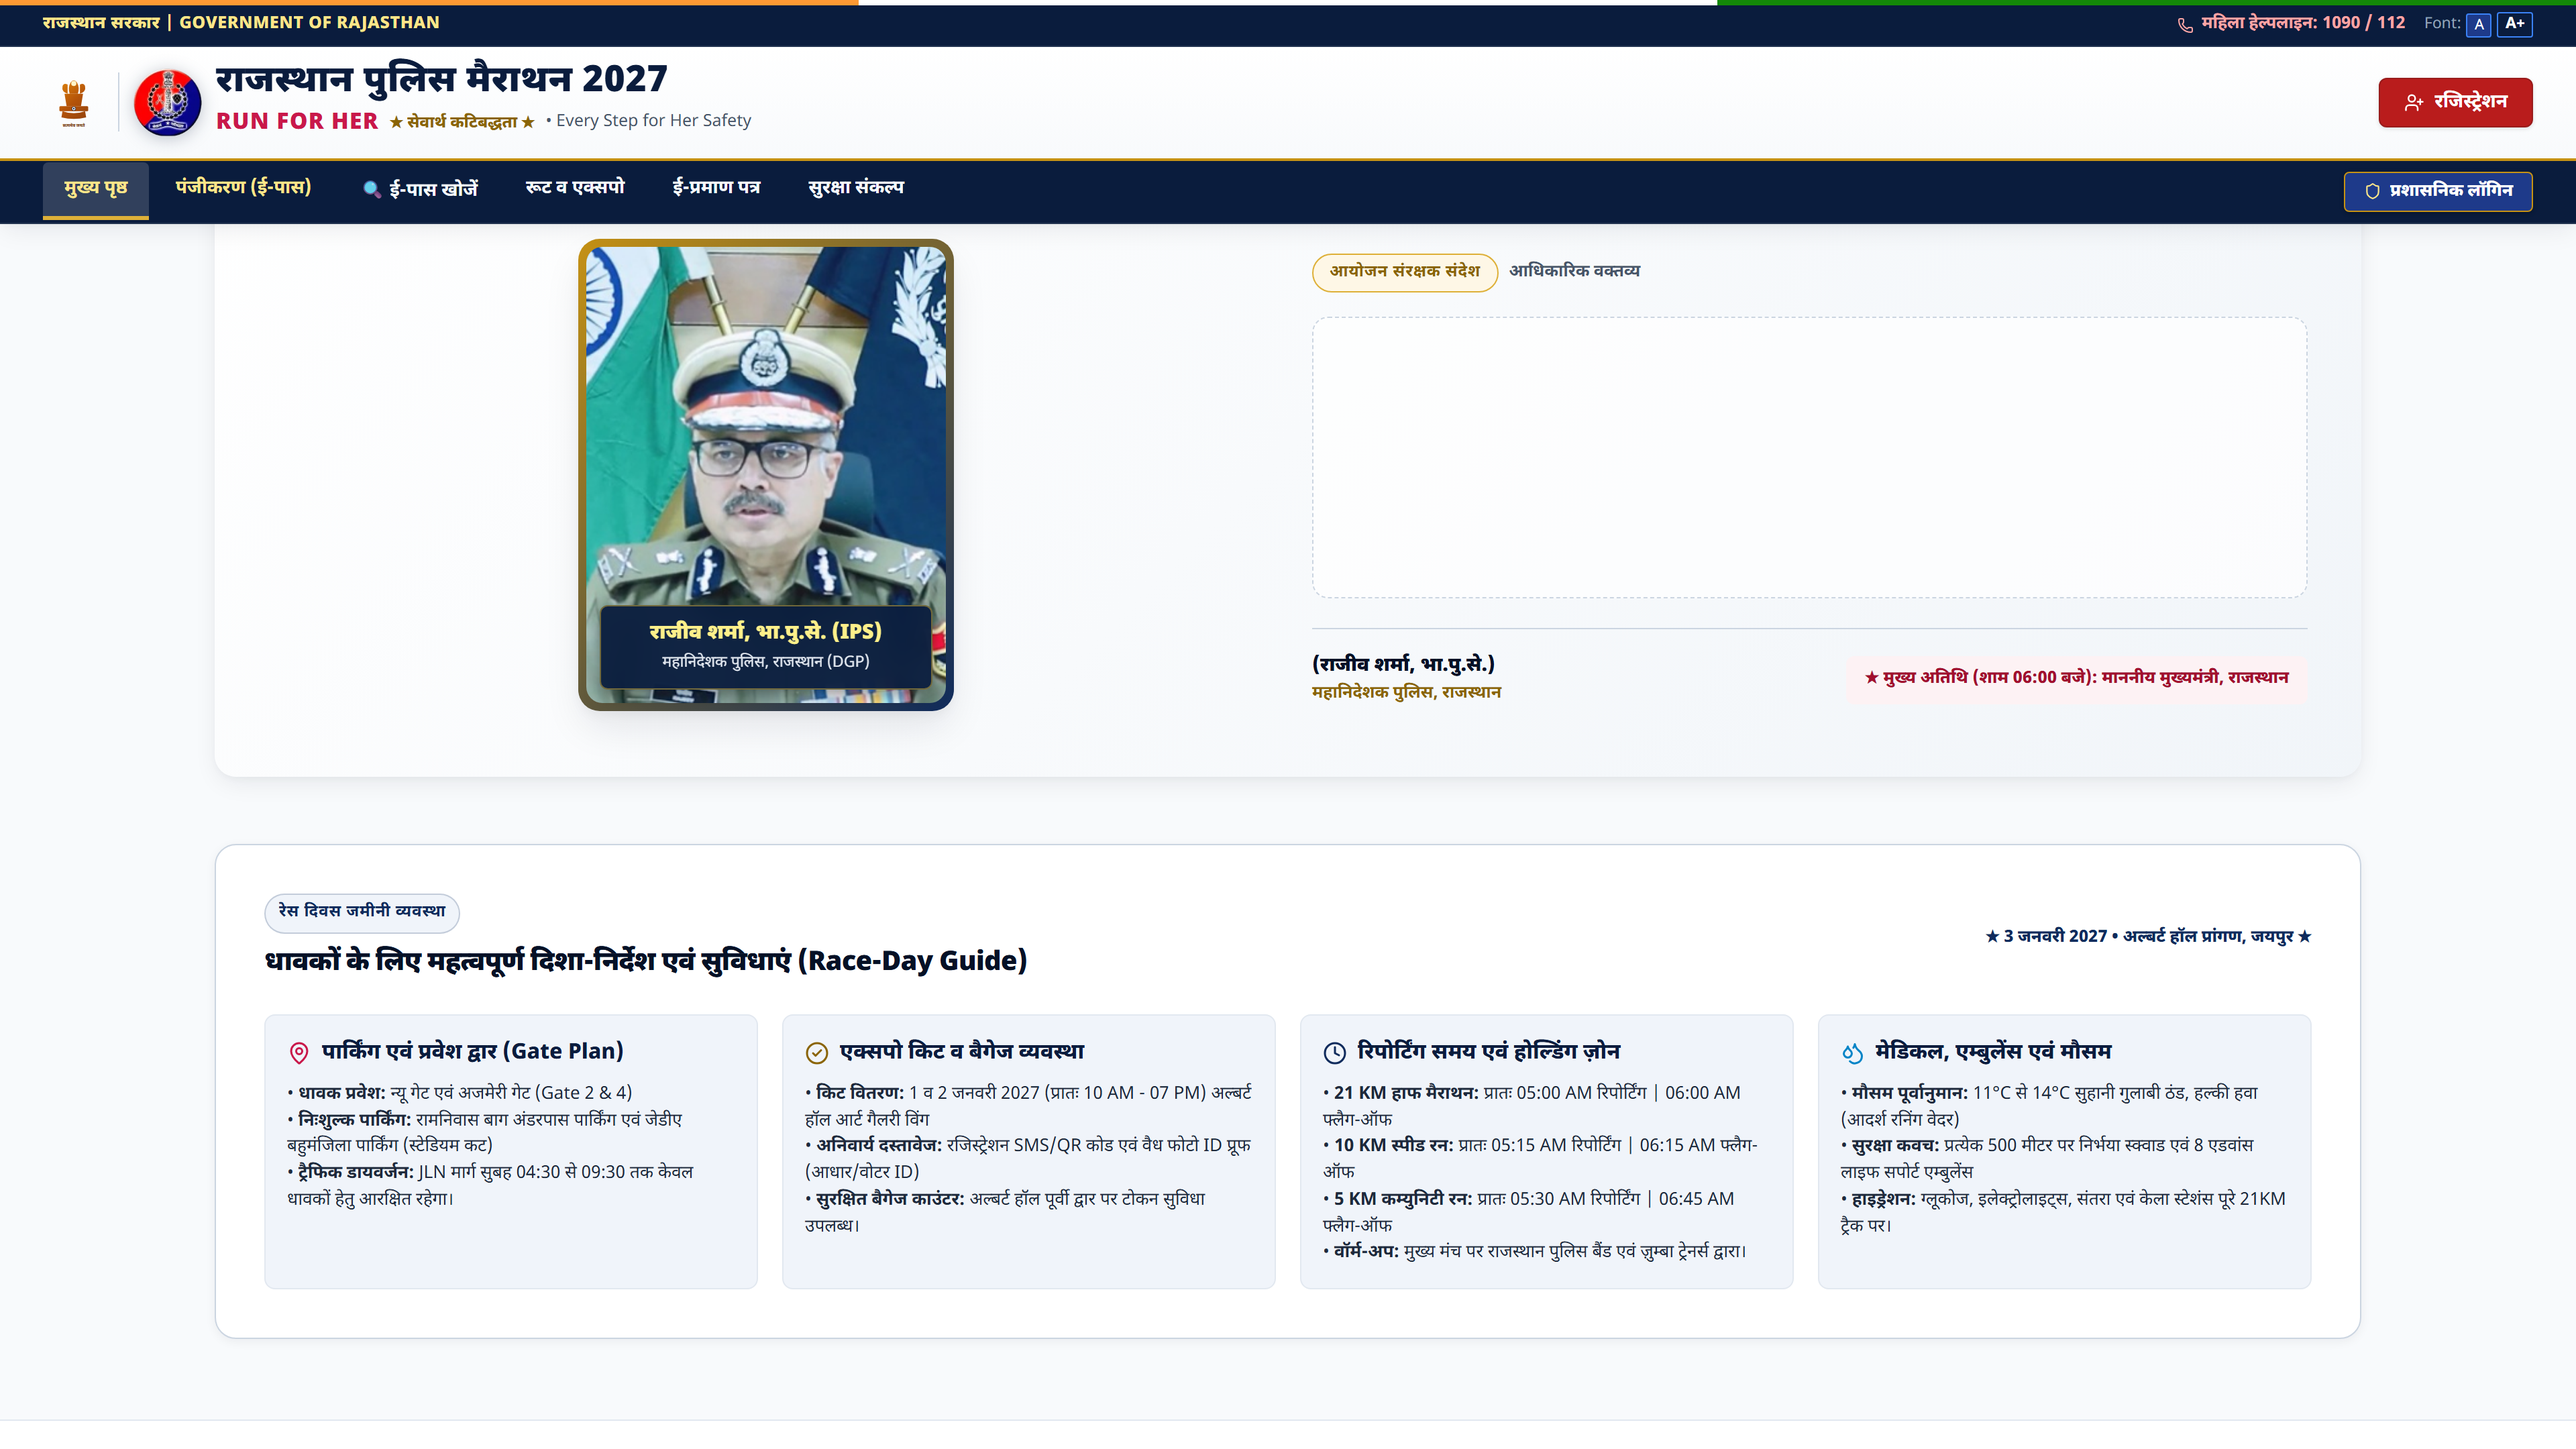
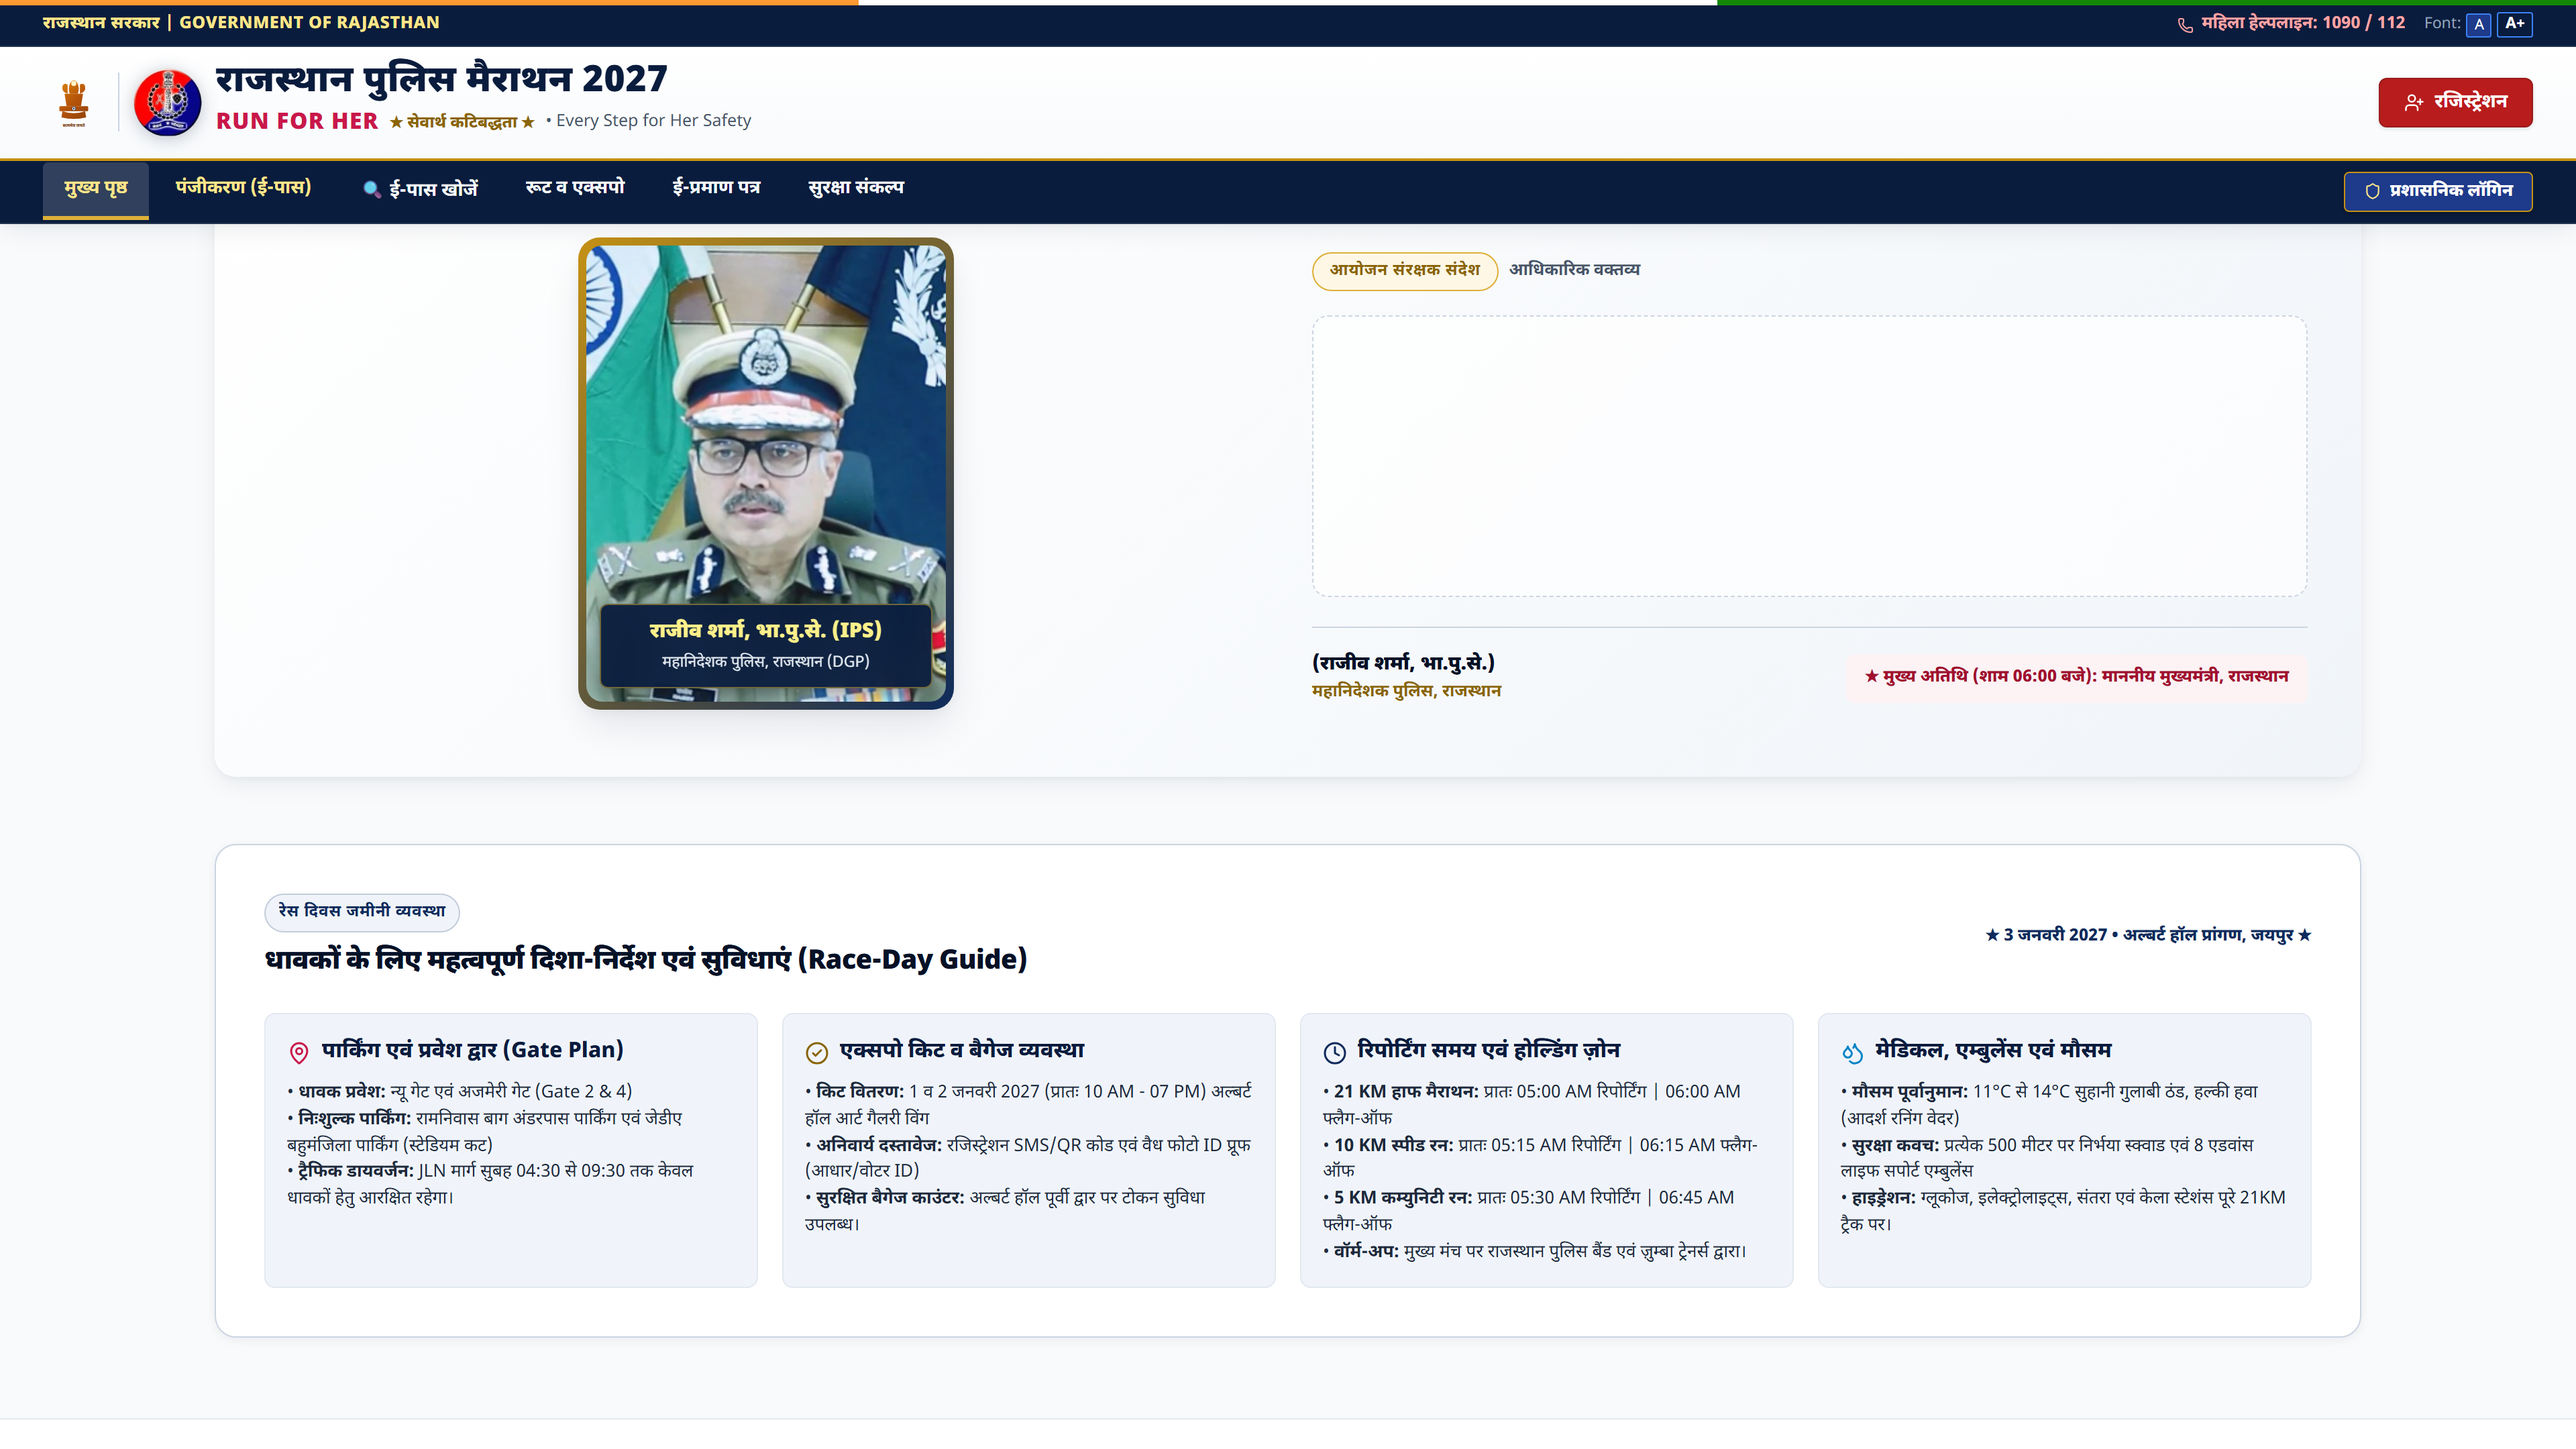
Remove Hero facts cards, make countdown timer transparent glassmorphic and remove date labels

diff --git a/src/components/Hero.jsx b/src/components/Hero.jsx
@@ -1,5 +1,5 @@
 import React, { useState, useEffect } from 'react';
-import { Calendar, MapPin, Users, Award, Bell, ArrowRight } from 'lucide-react';
+import { Timer, Bell, ArrowRight } from 'lucide-react';
 
 export function Hero({ onOpenRegister, onOpenFindPass, totalRegistered = "1000+" }) {
   // Live Countdown logic strictly targeted to 3 January 2027, 06:00:00 AM IST
@@ -205,111 +205,43 @@ export function Hero({ onOpenRegister, onOpenFindPass, totalRegistered = "1000+"
               </button>
             </div>
 
-            {/* Official Countdown Card (Glassmorphic Dignified White Surface) */}
+            {/* Transparent Glassmorphic Countdown Card */}
             <div className="hero-countdown-card">
-              <div style={{ display: 'flex', justifyContent: 'space-between', alignItems: 'center', flexWrap: 'wrap', gap: '8px', marginBottom: '14px', borderBottom: '1px solid var(--border-subtle)', paddingBottom: '10px' }}>
-                <div style={{ display: 'flex', alignItems: 'center', gap: '8px', color: 'var(--police-navy-900)', fontWeight: 800, fontSize: '0.9rem' }}>
-                  <Calendar size={18} color="var(--police-navy-900)" />
-                  <span>RACE DAY COUNTDOWN • 03 JAN 2027</span>
-                </div>
-                <div style={{ display: 'flex', alignItems: 'center', gap: '8px', flexWrap: 'wrap' }}>
-                  <div style={{ fontSize: '0.86rem', color: 'var(--crimson-600)', fontWeight: 800 }}>
-                    3 जनवरी 2027, प्रातः 06:00 बजे IST
-                  </div>
-                </div>
+              <div style={{ display: 'flex', alignItems: 'center', justifyContent: 'center', gap: '8px', color: '#fde68a', fontWeight: 800, fontSize: '0.94rem', marginBottom: '14px', borderBottom: '1px solid rgba(255, 255, 255, 0.15)', paddingBottom: '10px' }}>
+                <Timer size={18} color="#fde68a" />
+                <span style={{ letterSpacing: '0.04em' }}>इवेंट काउंटडाउन</span>
               </div>
 
-              <div className="hero-countdown-grid" style={{ display: 'grid', gridTemplateColumns: 'repeat(4, 1fr)', gap: '10px', textAlign: 'center' }}>
+              <div className="hero-countdown-grid" style={{ display: 'grid', gridTemplateColumns: 'repeat(4, 1fr)', gap: '12px', textAlign: 'center' }}>
                 {[
-                  { label: 'दिन (DAYS)', val: String(timeLeft.days).padStart(2, '0') },
-                  { label: 'घंटे (HOURS)', val: String(timeLeft.hours).padStart(2, '0') },
-                  { label: 'मिनट (MINS)', val: String(timeLeft.minutes).padStart(2, '0') },
-                  { label: 'सेकंड (SECS)', val: String(timeLeft.seconds).padStart(2, '0') }
+                  { label: 'दिन', val: String(timeLeft.days).padStart(2, '0') },
+                  { label: 'घंटे', val: String(timeLeft.hours).padStart(2, '0') },
+                  { label: 'मिनट', val: String(timeLeft.minutes).padStart(2, '0') },
+                  { label: 'सेकंड', val: String(timeLeft.seconds).padStart(2, '0') }
                 ].map((item, idx) => (
                   <div key={idx} className="hero-countdown-box" style={{
-                    background: '#0a1c3d',
-                    borderRadius: '10px',
-                    padding: '12px 6px',
-                    border: '1.5px solid #d4af37',
-                    boxShadow: '0 4px 14px rgba(10, 28, 61, 0.25)'
+                    background: 'rgba(255, 255, 255, 0.1)',
+                    backdropFilter: 'blur(10px)',
+                    WebkitBackdropFilter: 'blur(10px)',
+                    borderRadius: '12px',
+                    padding: '14px 8px',
+                    border: '1px solid rgba(255, 255, 255, 0.25)',
+                    boxShadow: '0 4px 16px rgba(0, 0, 0, 0.15)'
                   }}>
                     <div className="hero-countdown-val" style={{
-                      fontSize: 'clamp(1.7rem, 3.8vw, 2.6rem)',
+                      fontSize: 'clamp(1.8rem, 4vw, 2.8rem)',
                       fontWeight: 900,
                       color: '#fde68a',
                       lineHeight: 1,
-                      textShadow: '0 2px 4px rgba(0,0,0,0.5)'
+                      textShadow: '0 2px 8px rgba(0,0,0,0.4)'
                     }}>
                       {item.val}
                     </div>
-                    <div className="hero-countdown-lbl" style={{ fontSize: '0.72rem', color: '#f1f5f9', fontWeight: 800, letterSpacing: '0.04em', marginTop: '6px' }}>
+                    <div className="hero-countdown-lbl" style={{ fontSize: '0.78rem', color: '#f8fafc', fontWeight: 800, letterSpacing: '0.04em', marginTop: '6px' }}>
                       {item.label}
                     </div>
                   </div>
                 ))}
-              </div>
-            </div>
-
-            {/* Key Administrative Facts Strip */}
-            <div className="hero-facts-grid">
-              <div className="hero-fact-card" style={{
-                background: '#0a1c3d',
-                border: '1.5px solid rgba(212, 175, 55, 0.4)',
-                boxShadow: 'var(--shadow-sm)',
-                borderRadius: '8px',
-                padding: '14px 18px',
-                display: 'flex',
-                alignItems: 'center',
-                gap: '12px',
-                textAlign: 'left'
-              }}>
-                <div style={{ width: '42px', height: '42px', borderRadius: '8px', background: 'rgba(255, 255, 255, 0.15)', display: 'flex', alignItems: 'center', justifyContent: 'center', flexShrink: 0 }}>
-                  <Users size={20} color="#fef08a" />
-                </div>
-                <div>
-                  <div style={{ fontSize: '1.25rem', fontWeight: 900, color: '#fde68a' }}>{typeof totalRegistered === 'number' ? `${totalRegistered.toLocaleString()}+` : totalRegistered}</div>
-                  <div style={{ fontSize: '0.76rem', color: '#cbd5e1' }}>पंजीकृत नागरिक व पुलिस धावक</div>
-                </div>
-              </div>
-
-              <div className="hero-fact-card" style={{
-                background: '#0a1c3d',
-                border: '1.5px solid rgba(212, 175, 55, 0.4)',
-                boxShadow: 'var(--shadow-sm)',
-                borderRadius: '8px',
-                padding: '14px 18px',
-                display: 'flex',
-                alignItems: 'center',
-                gap: '12px',
-                textAlign: 'left'
-              }}>
-                <div style={{ width: '42px', height: '42px', borderRadius: '8px', background: 'rgba(255, 255, 255, 0.15)', display: 'flex', alignItems: 'center', justifyContent: 'center', flexShrink: 0 }}>
-                  <MapPin size={20} color="#fca5a5" />
-                </div>
-                <div>
-                  <div style={{ fontSize: '1.25rem', fontWeight: 900, color: '#ffffff' }}>समस्त पुलिस जिले</div>
-                  <div style={{ fontSize: '0.76rem', color: '#cbd5e1' }}>एक साथ 5K/10K का राज्यव्यापी आयोजन</div>
-                </div>
-              </div>
-
-              <div className="hero-fact-card" style={{
-                background: '#0a1c3d',
-                border: '1.5px solid rgba(212, 175, 55, 0.4)',
-                boxShadow: 'var(--shadow-sm)',
-                borderRadius: '8px',
-                padding: '14px 18px',
-                display: 'flex',
-                alignItems: 'center',
-                gap: '12px',
-                textAlign: 'left'
-              }}>
-                <div style={{ width: '42px', height: '42px', borderRadius: '8px', background: 'rgba(255, 255, 255, 0.15)', display: 'flex', alignItems: 'center', justifyContent: 'center', flexShrink: 0 }}>
-                  <Award size={20} color="#86efac" />
-                </div>
-                <div>
-                  <div style={{ fontSize: '1.25rem', fontWeight: 900, color: '#86efac' }}>माननीय मुख्यमंत्री</div>
-                  <div style={{ fontSize: '0.76rem', color: '#cbd5e1' }}>शाम 06:00 बजे पदक वितरण समारोह</div>
-                </div>
               </div>
             </div>
 
@@ -363,20 +295,16 @@ export function Hero({ onOpenRegister, onOpenFindPass, totalRegistered = "1000+"
         }
 
         .hero-countdown-card {
-          max-width: 720px;
-          margin: 0 auto 34px auto;
-          padding: 22px 28px;
-          border-radius: 12px;
-          background: #ffffff;
-          box-shadow: 0 16px 40px rgba(0, 0, 0, 0.35);
-          border: 2px solid rgba(212, 175, 55, 0.5);
-          color: var(--police-navy-950);
-        }
-
-        .hero-facts-grid {
-          display: grid;
-          grid-template-columns: repeat(auto-fit, minmax(230px, 1fr));
-          gap: 14px;
+          max-width: 680px;
+          margin: 0 auto;
+          padding: 20px 24px;
+          border-radius: 16px;
+          background: rgba(10, 28, 61, 0.4);
+          backdrop-filter: blur(14px);
+          -webkit-backdrop-filter: blur(14px);
+          box-shadow: 0 16px 36px rgba(0, 0, 0, 0.3);
+          border: 1px solid rgba(255, 255, 255, 0.22);
+          color: #ffffff;
         }
 
         /* Mobile Specific Responsive Optimization (< 768px) */
